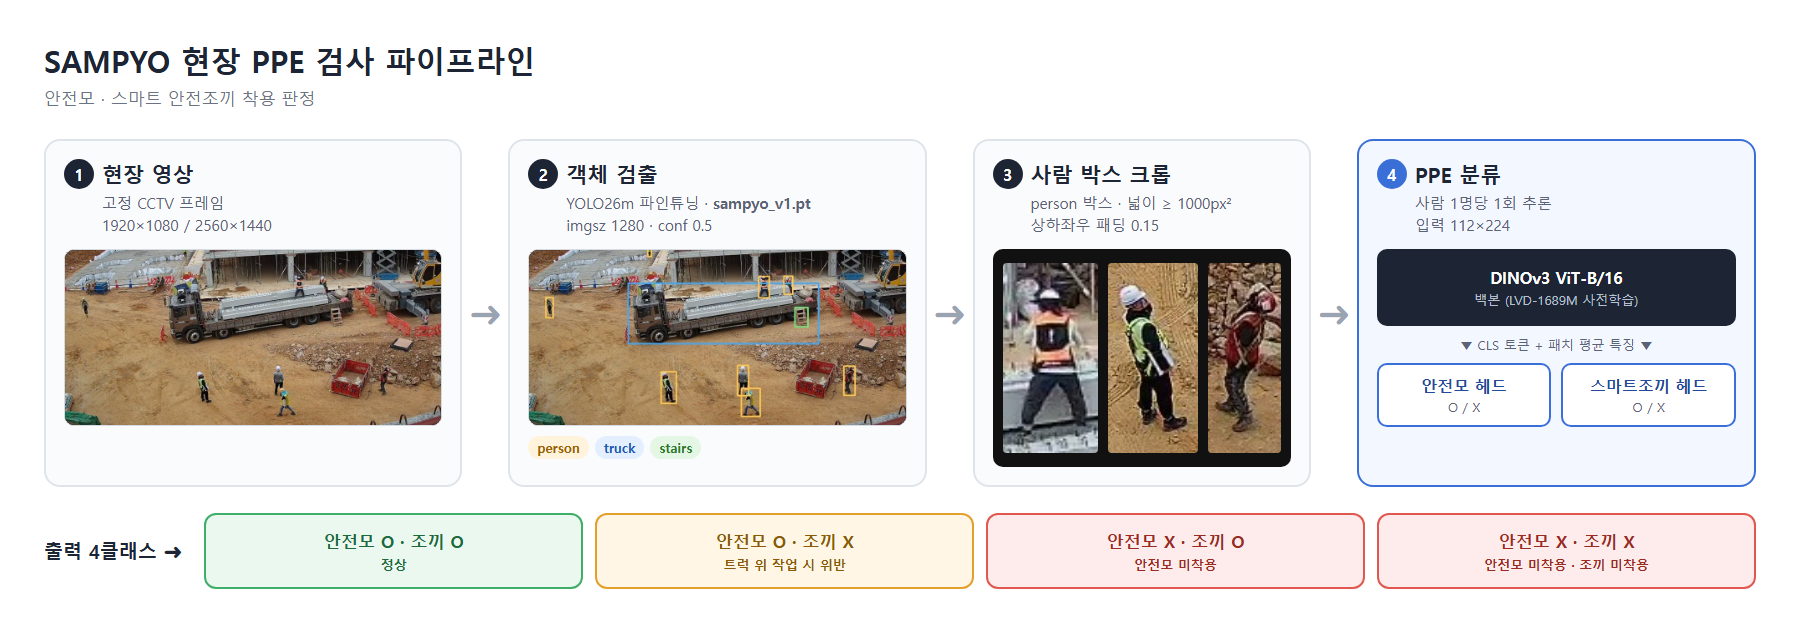
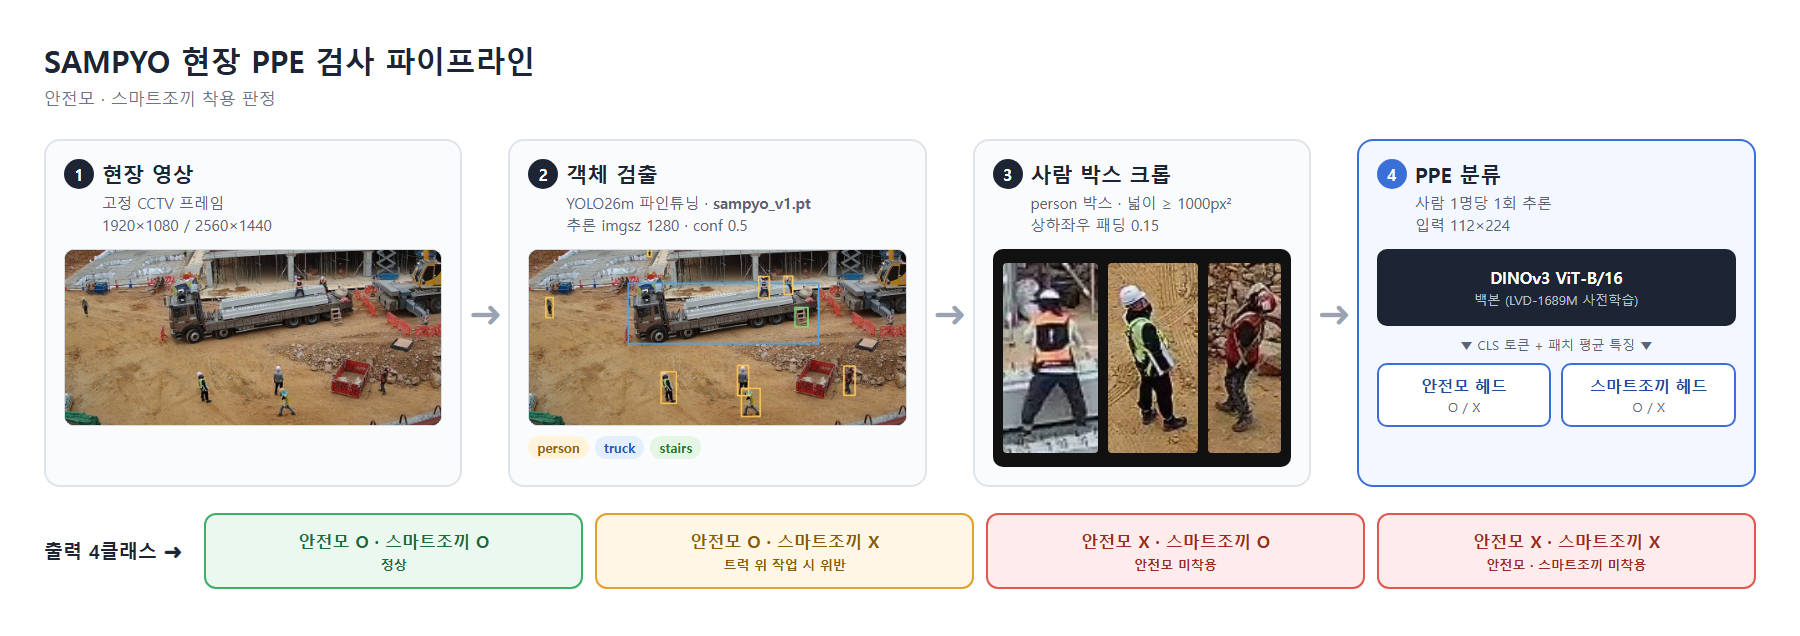
README/도식: '조끼' 표기를 '스마트조끼'로 통일

diff --git a/README.md b/README.md
@@ -14,16 +14,16 @@
 - [ ] DINOv3 특징으로 근접 중복 제거 (1초 간격 연속 프레임의 같은 사람)
 - [ ] 라벨링 기준 확정
   - 스마트조끼 O: 위 주황 · 아래 검정 (앞/뒤/옆 모두)
-  - 스마트조끼 X: 연두 조끼, 노랑 조끼, 하네스, 미착용
+  - 스마트조끼 X: 일반 안전조끼(연두·노랑), 하네스, 미착용
   - 판단불가: 너무 작거나 가려짐 → 학습 제외
-- [ ] `scripts/review_crops.py` → 안전모/조끼 라벨링 툴로 확장 (속성별 O / X / 판단불가)
+- [ ] `scripts/review_crops.py` → 안전모/스마트조끼 라벨링 툴로 확장 (속성별 O / X / 판단불가)
 - [ ] 스마트조끼 1~2천 장 수동 라벨링 → 1차 모델 예측 → 애매한 것만 검수
 - [ ] 안전모 X 라벨링 (카메라3 약 50장)
 - [ ] train / val / test 분리: 시간 구간·영상 단위 (랜덤 분리 금지)
 
 ### 모델
 - [ ] `PPEClassifier`: DINOv3 백본 + 안전모 헤드 + 스마트조끼 헤드 → 4클래스 조합
-- [ ] 라벨 없는 속성은 손실에서 제외 (조끼만 먼저 학습 가능)
+- [ ] 라벨 없는 속성은 손실에서 제외 (스마트조끼만 먼저 학습 가능)
 - [ ] 1단계: 백본 고정 + 헤드 학습 / 2단계: 마지막 2~4 블록 미세조정
 - [ ] 평가: 속성별 X(위반) 재현율, 4×4 혼동행렬
 
